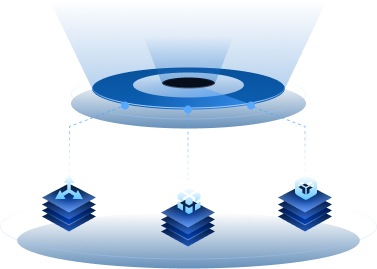
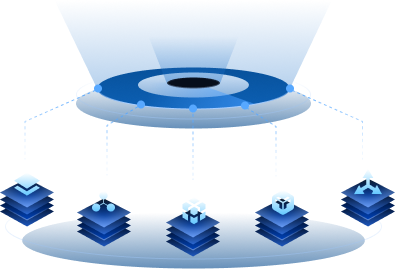
feat:接入第二层和第三层的接口

diff --git a/src/components/LeftSidebar.vue b/src/components/LeftSidebar.vue
@@ -17,6 +17,8 @@ const dimensions = computed(() => qualityDetail.value ? [
   { name: dashboardLabels.leftTop.fieldLabels.waveformScore, value: qualityDetail.value.waveformScore, field: 'waveformScore' as const },
   { name: dashboardLabels.leftTop.fieldLabels.targetScore, value: qualityDetail.value.targetScore, field: 'targetScore' as const },
   { name: dashboardLabels.leftTop.fieldLabels.clutterScore, value: qualityDetail.value.clutterScore, field: 'clutterScore' as const },
+  { name: dashboardLabels.leftTop.fieldLabels.sceneScore, value: qualityDetail.value.sceneScore, field: 'sceneScore' as const },
+  { name: dashboardLabels.leftTop.fieldLabels.climateScore, value: qualityDetail.value.climateScore, field: 'climateScore' as const },
 ] : [])
 const sourceDefinitions: Array<{ name: string; key: keyof DataSourceData }> = [
   { name: dashboardLabels.leftBottom.fieldLabels.actual, key: 'actual' },
@@ -46,7 +48,7 @@ const toggleSource = (index: number) => {
 
 const loadQualityDetail = async () => {
   // 业务参数放在使用接口的 Vue 模块中，后续在这里调整。
-  const response = await getDataEvaluateDetail({ datasetId: 0 })
+  const response = await getDataEvaluateDetail({ datasetType: 0 })
   if (response.code === 200) qualityDetail.value = response.data?.[0]
 }
 
@@ -68,7 +70,7 @@ onMounted(() => {
 <template>
   <aside class="left-sidebar">
     <PanelSection :title="labels.quality" :icon="qualityIcon">
-      <div class="quality-visual"><img class="quality-dimensions" :src="qualityDimensions" alt="" /><div class="quality-summary"><strong>{{ qualityDetail?.datasetDesc ?? '--' }}</strong><span><b>{{ qualityDetail?.datasetCnt ?? '--' }}</b>{{ dashboardLabels.leftTop.fieldUnits.datasetCnt }}</span></div><div class="dimension-list"><div v-for="item in dimensions" :key="item.name"><span>{{ item.name }}</span><b>{{ item.value }}<small>{{ dashboardLabels.leftTop.fieldUnits[item.field] }}</small></b></div></div></div>
+      <div class="quality-visual"><img class="quality-dimensions" :src="qualityDimensions" alt="" /><div class="quality-summary"><strong>{{ dashboardLabels.leftTop.dimensionTitle }}</strong><span><b>{{ dimensions.length || '--' }}</b>{{ dashboardLabels.leftTop.dimensionUnit }}</span></div><div class="dimension-list"><div v-for="item in dimensions" :key="item.name"><span>{{ item.name }}</span><b>{{ item.value }}<small>{{ dashboardLabels.leftTop.fieldUnits[item.field] }}</small></b></div></div></div>
     </PanelSection>
     <PanelSection class="panel-section--secondary" :title="labels.source" :icon="sourceIcon">
       <div class="source-chart"><EChart ref="sourceChart" :option="sourceOption" /></div>
@@ -79,7 +81,7 @@ onMounted(() => {
 
 <style scoped>
 .left-sidebar { display: flex; align-items: flex-start; flex-direction: column; gap: 0; }.left-sidebar :deep(.panel-section) { width: 21.1458vw; }.left-sidebar :deep(.panel-section--secondary) { width: 17.7083vw; }
-.quality-visual { position: relative; width: 19.6354vw; height: 36.0185vh; margin-left: .625vw; }.quality-visual::before { content: ''; position: absolute; z-index: 1; top: 7.4074vh; left: 50%; width: 11.9792vw; height: 4.4444vh; border-radius: 50%; background: radial-gradient(ellipse, rgba(79,210,255,.78) 0%, rgba(25,143,255,.42) 40%, rgba(0,111,255,0) 74%); filter: blur(.2083vw); transform: translateX(-50%) scale(.84); transform-origin: center; opacity: .48; mix-blend-mode: screen; pointer-events: none; animation: quality-platform-breathe 2.8s ease-in-out infinite; }.quality-dimensions { position: absolute; top: 1.2963vh; left: 0; display: block; width: 100%; height: 24.9074vh; }.quality-summary { position: absolute; z-index: 2; top: 3.9815vh; left: 0; width: 100%; text-align: center; }.quality-summary strong { display: block; font-size: .8333vw; font-weight: 700; line-height: normal; background: linear-gradient(180deg, #fff 0%, #64c7ff 100%); -webkit-background-clip: text; background-clip: text; -webkit-text-fill-color: transparent; }.quality-summary span { color: rgba(255,255,255,.6); font-size: .7292vw; }.quality-summary b { margin-right: .1563vw; color: #95e5ff; font-size: 1.0417vw; font-weight: 700; }.dimension-list { position: absolute; top: 28.0556vh; left: 0; width: 100%; display: grid; grid-template-columns: repeat(3, 1fr); text-align: center; }.dimension-list span { display: block; color: #fff; font-size: .7292vw; }.dimension-list b { display: block; color: #95e5ff; font-size: .8333vw; font-weight: 700; }.dimension-list small { margin-left: .1042vw; color: rgba(255,255,255,.6); font-size: .625vw; font-weight: 400; }.source-chart { width: 17.7083vw; height: 23.1481vh; margin-top: 2.5926vh; }.source-legend { display: grid; grid-template-columns: repeat(2, minmax(0, 1fr)); justify-items: start; width: 15.4167vw; gap: .7407vh 1.0417vw; margin-top: 1.6667vh; margin-left: 1.1458vw; color: #c5e8ff; font-size: .625vw; line-height: 1.2; }.source-legend button { width: 100%; padding:0; color:inherit; font:inherit; text-align:left; white-space:nowrap; border:0; outline:0; appearance:none; -webkit-appearance:none; border-radius:0; box-shadow:none; background:transparent; cursor:pointer; }.source-legend .is-muted { opacity:.35; }.dot { display: inline-block; width: .5208vw; height: .5208vw; margin-right: .4167vw; vertical-align: -.0521vw; }.dot--0 { background:#258df1 }.dot--1 { background:#3645c7 }.dot--2 { background:#823cc8 }
+.quality-visual { position: relative; width: 20.5729vw; height: 36.0185vh; margin-left: .2865vw; }.quality-visual::before { content: ''; position: absolute; z-index: 1; top: 7.4074vh; left: 50%; width: 11.9792vw; height: 4.4444vh; border-radius: 50%; background: radial-gradient(ellipse, rgba(79,210,255,.78) 0%, rgba(25,143,255,.42) 40%, rgba(0,111,255,0) 74%); filter: blur(.2083vw); transform: translateX(-50%) scale(.84); transform-origin: center; opacity: .48; mix-blend-mode: screen; pointer-events: none; animation: quality-platform-breathe 2.8s ease-in-out infinite; }.quality-dimensions { position: absolute; top: 1.2963vh; left: 0; display: block; width: 100%; height: 24.9074vh; }.quality-summary { position: absolute; z-index: 2; top: 3.9815vh; left: 0; width: 100%; text-align: center; }.quality-summary strong { display: block; font-size: .8333vw; font-weight: 700; line-height: normal; background: linear-gradient(180deg, #fff 0%, #64c7ff 100%); -webkit-background-clip: text; background-clip: text; -webkit-text-fill-color: transparent; }.quality-summary span { color: rgba(255,255,255,.6); font-size: .7292vw; }.quality-summary b { margin-right: .1563vw; color: #95e5ff; font-size: 1.0417vw; font-weight: 700; }.dimension-list { position: absolute; z-index: 2; inset: 0; text-align: center; pointer-events: none; }.dimension-list > div { position: absolute; width: 3.6458vw; transform: translateX(-50%); }.dimension-list > div:nth-child(1) { top: 22.7778vh; left: 6.53%; }.dimension-list > div:nth-child(2) { top: 24.7222vh; left: 26.25%; }.dimension-list > div:nth-child(3) { top: 25.5556vh; left: 48.96%; }.dimension-list > div:nth-child(4) { top: 24.7222vh; left: 71.29%; }.dimension-list > div:nth-child(5) { top: 22.7778vh; left: 93.06%; }.dimension-list span { display: block; color: #fff; font-size: .7292vw; line-height: 1.4815vh; white-space: nowrap; }.dimension-list b { display: block; color: #95e5ff; font-size: .8333vw; font-weight: 700; line-height: 1.6667vh; }.dimension-list small { margin-left: .1042vw; color: rgba(255,255,255,.6); font-size: .625vw; font-weight: 400; }.source-chart { width: 17.7083vw; height: 23.1481vh; margin-top: 2.5926vh; }.source-legend { display: grid; grid-template-columns: repeat(2, minmax(0, 1fr)); justify-items: start; width: 15.4167vw; gap: .7407vh 1.0417vw; margin-top: 1.6667vh; margin-left: 1.1458vw; color: #c5e8ff; font-size: .625vw; line-height: 1.2; }.source-legend button { width: 100%; padding:0; color:inherit; font:inherit; text-align:left; white-space:nowrap; border:0; outline:0; appearance:none; -webkit-appearance:none; border-radius:0; box-shadow:none; background:transparent; cursor:pointer; }.source-legend .is-muted { opacity:.35; }.dot { display: inline-block; width: .5208vw; height: .5208vw; margin-right: .4167vw; vertical-align: -.0521vw; }.dot--0 { background:#258df1 }.dot--1 { background:#3645c7 }.dot--2 { background:#823cc8 }
 @keyframes quality-platform-breathe {
   0%, 100% { opacity: .42; filter: blur(.2083vw); transform: translateX(-50%) scale(.84); }
   50% { opacity: 1; filter: blur(.3646vw); transform: translateX(-50%) scale(1.08); }

diff --git a/src/config/dashboard-labels.ts b/src/config/dashboard-labels.ts
@@ -10,13 +10,16 @@ type SourceFieldLabels = {
 }
 
 type QualityScoreField = 'waveformScore' | 'targetScore' | 'clutterScore' | 'sceneScore' | 'climateScore'
+type DatasetIdentityField = 'datasetId' | 'datasetDesc'
 
 export interface DashboardLabels {
   pageHeader: { title: string; platform: string }
   leftTop: {
     title: string
+    dimensionTitle: string
+    dimensionUnit: string
     fieldLabels: Record<QualityScoreField, string>
-    fieldUnits: Record<QualityScoreField | 'datasetCnt', string>
+    fieldUnits: Record<QualityScoreField, string>
   }
   leftBottom: { title: string; fieldLabels: SourceFieldLabels; fieldUnit: string }
   rightTop: {
@@ -33,8 +36,15 @@ export interface DashboardLabels {
   }
   centerTree: {
     service: { title: string }
-    application: { title: string }
-    foundation: { title: string }
+    application: {
+      title: string
+      fieldLabels: Record<DatasetIdentityField, string>
+    }
+    foundation: {
+      title: string
+      fieldLabels: Record<DatasetIdentityField | 'datasetCnt', string>
+      fieldUnits: Record<'datasetCnt', string>
+    }
     source: { title: string; fieldLabels: SourceFieldLabels; fieldUnit: string }
   }
 }
@@ -47,8 +57,10 @@ const emptyLabels: DashboardLabels = {
   pageHeader: { title: '', platform: '' },
   leftTop: {
     title: '',
+    dimensionTitle: '',
+    dimensionUnit: '',
     fieldLabels: { waveformScore: '', targetScore: '', clutterScore: '', sceneScore: '', climateScore: '' },
-    fieldUnits: { datasetCnt: '', waveformScore: '', targetScore: '', clutterScore: '', sceneScore: '', climateScore: '' },
+    fieldUnits: { waveformScore: '', targetScore: '', clutterScore: '', sceneScore: '', climateScore: '' },
   },
   leftBottom: { title: '', fieldLabels: emptySourceFieldLabels(), fieldUnit: '' },
   rightTop: {
@@ -65,8 +77,15 @@ const emptyLabels: DashboardLabels = {
   },
   centerTree: {
     service: { title: '' },
-    application: { title: '' },
-    foundation: { title: '' },
+    application: {
+      title: '',
+      fieldLabels: { datasetId: '', datasetDesc: '' },
+    },
+    foundation: {
+      title: '',
+      fieldLabels: { datasetId: '', datasetDesc: '', datasetCnt: '' },
+      fieldUnits: { datasetCnt: '' },
+    },
     source: { title: '', fieldLabels: emptySourceFieldLabels(), fieldUnit: '' },
   },
 }

diff --git a/src/components/center/mock-data.ts b/src/components/center/mock-data.ts
@@ -2,7 +2,6 @@ import metricOne from '@/assets/img/center/total-view-icon/overview-metric-01.sv
 import metricTwo from '@/assets/img/center/total-view-icon/overview-metric-02.svg'
 import metricThree from '@/assets/img/center/total-view-icon/overview-metric-03.svg'
 import metricFour from '@/assets/img/center/total-view-icon/overview-metric-04.svg'
-import foundationIcon from '@/assets/img/center/tree/two/application-node-icon.svg'
 import scenarioIconOne from '@/assets/img/center/tree/three/scenario-node-icon-01.svg'
 import scenarioIconTwo from '@/assets/img/center/tree/three/scenario-node-icon-02.svg'
 import scenarioIconThree from '@/assets/img/center/tree/three/scenario-node-icon-03.svg'
@@ -23,30 +22,9 @@ export const serviceNodes: TreeNode[] = [
   { id: 4, label: '治理服务', value: '645', unit: '个' },
 ]
 
-export const applicationNodes: TreeNode[] = [
-  '全市政务数据共享交换服务管理应用',
-  '城市运行综合监测分析管理服务应用',
-  '公共资源交易数据协同监管服务应用',
-  '基层社会治理联动指挥调度服务应用',
-  '生态环境质量监测预警分析服务应用',
-  '公共安全风险研判预警处置服务应用',
-  '城市交通运行态势分析管理服务应用',
-  '全民医疗健康数据便民服务管理应用',
-  '公共教育资源统筹配置管理服务应用',
-  '市场主体综合监管分析决策服务应用',
-  '基本民生服务保障协同管理服务应用',
-  '突发事件应急指挥联动调度服务应用',
-].map((label, index) => ({ id: index + 1, label }))
-
 export const scenarioNodes: TreeNode[] = [
   { id: 1, label: '应用场景一', icon: scenarioIconOne },
   { id: 2, label: '应用场景二', icon: scenarioIconTwo },
   { id: 3, label: '应用场景三', icon: scenarioIconThree },
   { id: 4, label: '应用场景四', icon: scenarioIconFour },
 ]
-
-export const foundationNodes: TreeNode[] = [
-  ['人口库', '33.09'], ['法人库', '28.76'], ['空间库', '45.20'],
-  ['电子证照', '19.86'], ['信用库', '37.42'], ['事项库', '26.18'],
-  ['资源库', '41.06'], ['主题库', '30.55'], ['专题库', '35.72'],
-].map(([label, value], index) => ({ id: index + 1, label, value, unit: '万条', icon: foundationIcon }))

diff --git a/src/components/CenterStage.vue b/src/components/CenterStage.vue
@@ -1,18 +1,62 @@
 <script setup lang="ts">
+import { onMounted, ref } from 'vue'
+import { getDataEvaluateDetail } from '@/api'
+import type { DataEvaluateDetailItem } from '@/api'
 import architectureBackground from '@/assets/img/center/tree/architecture-background.png'
+import foundationIcon from '@/assets/img/center/tree/two/application-node-icon.svg'
+import { dashboardLabels } from '@/config/dashboard-labels'
 import TopMetrics from './center/cards/TopMetrics.vue'
 import ApplicationLayer from './center/tree/ApplicationLayer.vue'
 import FoundationLayer from './center/tree/FoundationLayer.vue'
 import ServiceLayer from './center/tree/ServiceLayer.vue'
 import SourceLayer from './center/tree/SourceLayer.vue'
 import {
-  applicationNodes,
-  foundationNodes,
   metrics,
   scenarioNodes,
   serviceNodes,
 } from './center/mock-data'
+import type { TreeNode } from './center/types'
 import './center/tree/tree-shared.css'
+
+const applicationNodes = ref<TreeNode[]>([])
+const foundationNodes = ref<TreeNode[]>([])
+
+const mapApplicationNode = (item: DataEvaluateDetailItem): TreeNode => ({
+  id: item.datasetId,
+  label: item.datasetDesc,
+})
+
+const mapFoundationNode = (item: DataEvaluateDetailItem): TreeNode => ({
+  id: item.datasetId,
+  label: item.datasetDesc,
+  value: String(item.datasetCnt),
+  unit: dashboardLabels.centerTree.foundation.fieldUnits.datasetCnt,
+  icon: foundationIcon,
+})
+
+const loadDatasetNodes = async () => {
+  const [foundationResult, applicationResult] = await Promise.allSettled([
+    getDataEvaluateDetail({ datasetType: 1 }),
+    getDataEvaluateDetail({ datasetType: 2 }),
+  ])
+
+  if (foundationResult.status === 'fulfilled') {
+    const response = foundationResult.value
+    if (response.code === 200 && Array.isArray(response.data)) {
+      foundationNodes.value = response.data.map(mapFoundationNode)
+    }
+  }
+  if (applicationResult.status === 'fulfilled') {
+    const response = applicationResult.value
+    if (response.code === 200 && Array.isArray(response.data)) {
+      applicationNodes.value = response.data.map(mapApplicationNode)
+    }
+  }
+}
+
+onMounted(() => {
+  void loadDatasetNodes()
+})
 </script>
 
 <template>

diff --git a/src/components/center/tree/ApplicationLayer.vue b/src/components/center/tree/ApplicationLayer.vue
@@ -1,5 +1,5 @@
 <script setup lang="ts">
-import { computed, onBeforeUnmount, onMounted, ref } from 'vue'
+import { computed, onBeforeUnmount, onMounted, ref, watch } from 'vue'
 import applicationNodeActive from '@/assets/img/center/tree/two/application-node-active.svg'
 import applicationNodeDefault from '@/assets/img/center/tree/two/application-node-default.svg'
 import type { TreeNode } from '../types'
@@ -149,6 +149,14 @@ onMounted(() => {
 })
 
 onBeforeUnmount(() => { stop(); resizeObserver?.disconnect() })
+
+watch(() => props.nodes.length, (nodeCount) => {
+  carouselPosition.value = nodeCount > 0 ? carouselPosition.value % nodeCount : 0
+  if (layerElement.value) {
+    const bounds = layerElement.value.getBoundingClientRect()
+    updateLayout(bounds.width, bounds.height)
+  }
+})
 </script>
 
 <template>

diff --git a/src/components/center/tree/FoundationLayer.vue b/src/components/center/tree/FoundationLayer.vue
@@ -1,5 +1,5 @@
 <script setup lang="ts">
-import { onBeforeUnmount, onMounted, ref } from 'vue'
+import { onBeforeUnmount, onMounted, ref, watch } from 'vue'
 import nodeBaseActive from '@/assets/img/center/tree/node-base-active.png'
 import nodeBaseDefault from '@/assets/img/center/tree/node-base-default.png'
 import scenarioNodeBase from '@/assets/img/center/tree/three/scenario-node-base.png'
@@ -58,6 +58,10 @@ onMounted(() => {
   startFoundationCarousel()
 })
 onBeforeUnmount(stopFoundationCarousel)
+
+watch(() => props.foundationNodes, (nodes) => {
+  if (!nodes.some(node => node.id === selectedFoundationId.value)) selectNextFoundation()
+})
 
 const getFoundationTop = (progress: number) => {
   const distanceFromCenter = Math.abs(progress - 0.5) * 2

diff --git a/src/api/dashboard.ts b/src/api/dashboard.ts
@@ -38,8 +38,8 @@ export interface DataAssetApplicationItem {
 
 /** 左上角「数据质量评价」查询参数。 */
 export interface DataEvaluateDetailParams {
-  /** 数据集 ID；传 0 时查询默认数据集列表。 */
-  datasetId: number
+  /** 数据集类型：0 左上角，1 基础数据集，2 应用数据集。 */
+  datasetType: 0 | 1 | 2
 }
 
 /** 左上角「数据质量评价」数据集详情。 */
